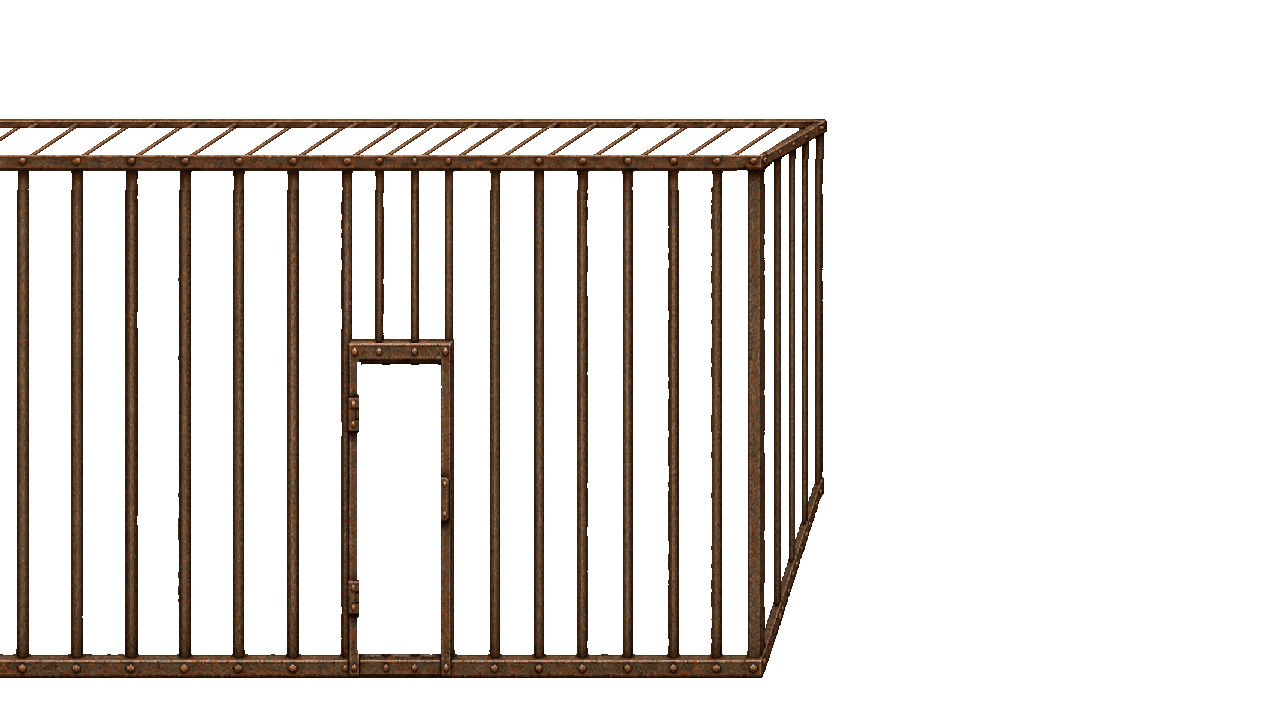
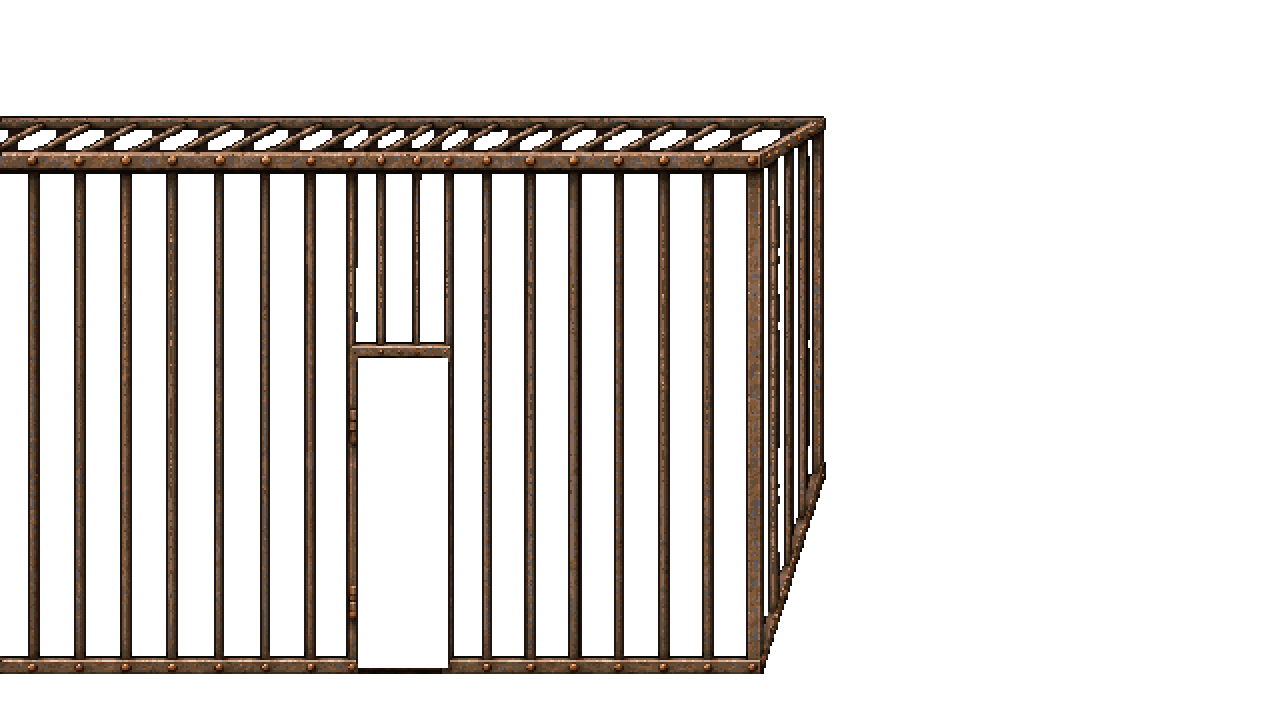
Install approved cell cage redraw and update handoffs

Changed region(s): [[0.0, 0.1528, 0.6562, 0.9472]]

diff --git a/adventure/WORKLOG.md b/adventure/WORKLOG.md
@@ -5,20 +5,22 @@ Per-agent activity and requests: [from Claude](handoff/from-claude.md), [from Co
 Older verification history is in Git history of this file and in CHANGELOG.md.
 
 ## Checkout
-- Branch `dual-ownership`, HEAD `da85ac3`. Last inspected remote and Pages deployment:
+- Branch `dual-ownership`, HEAD `eee676d`. Last inspected remote and Pages deployment:
   `c14fdd4`. Earlier work is committed; published output is unchanged.
-- Claude's 2026-11-15 workflow audit is committed in `da85ac3` (not pushed); no local changes.
+- Claude's workflow audit and request-template changes are committed locally (not pushed).
+  Local changes: `WORKLOG.md`, both handoffs, cage/gate art, manifest and provenance;
+  r4 delivery archived in ignored `art/inbox/done/cell-cage-redraw-r4/`.
 
 ## Working on
 - **Active mode: Codex + Claude**, selected by the user on 2026-11-15. Split, handoff files
   and model guidance: [WORKFLOW.md](WORKFLOW.md). Pauses and approvals unchanged.
-- Current tasks, claims and deliveries awaiting the user are in the two handoff files
-  (cell cage r2 review; unconfirmed kneeling-worker bounce work).
-- R1 and the earlier roof-only `art/inbox/cell-roof-bars/r1/` are superseded cell-cage evidence.
+- Current tasks, claims and deliveries awaiting the user are in the two handoff files.
 - Local Ashlands Story Board in ignored `private/story-board/` (desktop shortcut
   `Ashlands Story Board.lnk`). User edits in `data/board.json`: preserve them; never reseed.
 
 ## Recently completed (installed, verified)
+- Cell cage/gate r4 (user approval 2026-11-15): new clean drawing, existing registration.
+  Evidence: `art/inbox/done/cell-cage-redraw-r4/`. C3 complete; r1–r3 remain uninstalled references.
 - Portrait r2: sixteen standing-based identities with speaking frames and mood metadata.
   Evidence: `art/inbox/done/dialogue-portraits-r2/`; thirteen paused-work briefs remain.
 - Cursor r3 (user approval 2026-11-15): pointing hand for objects/satchel/carried items,
@@ -43,11 +45,16 @@ Older verification history is in Git history of this file and in CHANGELOG.md.
   Font studies remain separate; game fonts unchanged. See README for player behavior.
 
 ## Latest verification
+- Kneeling-worker status confirmed: generator and installed human atlas tags hold frame 8;
+  typecheck and 38 crowd tests pass, including the stationary work contract. No code/art edits
+  or fresh browser playback during this status check.
+- Cell cage r4 installation: approved bytes exact; typecheck, 239 fast / 90 art tests and art
+  checker pass. Four direct installed-asset scratch captures at 1280×720 inspected, zero
+  page/HTTP errors. Evidence: `art/inbox/done/cell-cage-redraw-r4/HANDOFF.md`.
+  Published output unchanged; no commit or push.
 - Workflow audit (2026-11-15): see `handoff/from-claude.md`.
 - Story board (HEAD `36b31bc`): five server persistence tests and standalone browser checks
   passed; game typecheck and 239 fast tests passed. No browser suites or build.
-- Cell cage r2: candidate and failing-baseline regression checks, 239 fast / 90 art tests;
-  temporary previews dark/lit, closed/open, three desktop sizes, zero page/asset errors.
 - Portrait installation: typecheck, 239 fast / 90 art / 286 all-Node tests; scratch
   production dialogue verified all 16 identities / 48 frames with zero page/asset errors.
 - Cursor r3: 238 fast / 132 art-input tests, art checks, 557-file Markdown freshness and
@@ -57,15 +64,10 @@ Older verification history is in Git history of this file and in CHANGELOG.md.
   file readers failed with "registered Core launch requires an installed app").
 
 ## Pending and paused
-- Kofi's 45–60-minute target needs a timed human playthrough.
-- Finished Kofi art and rig installation on hold; source alternatives are review-only.
-  Two Kofi review requests (K1, K2 in `handoff/from-codex.md`) lack an approval authority.
-- Mara's left-facing artwork and Chapter 2 paused until the user resumes them.
 - The discarded 2026-11-11 interaction-effects brief remains rejected; the 2026-11-14 UI
   polish is a distinct implemented delivery.
 - Cell-visual browser changes were previously stopped before a full run. Soft stairs light
   is an intentional placeholder. Oversized verb-icon notices are informational.
 
 ## Next action
-- User reviews cell cage r2 and names the approval authority for Kofi reviews K1/K2.
-- Codex request C1: confirm the new routine is recovered in a fresh Codex session.
+- No open Codex request; C3 is installed and complete. See per-agent handoffs.

diff --git a/adventure/handoff/from-codex.md b/adventure/handoff/from-codex.md
@@ -5,22 +5,16 @@ Written only by Codex; Claude reads it and never edits it. Procedure:
 task queues; Codex owns it from now on.
 
 ## Working on
-- Kneeling human workers' bounce removal: last recorded claims were the human-extra atlas work
-  tags, their generator definition and the focused crowd contract test. Completion not recorded;
-  confirm the state and update this entry.
+- Nothing active. No file claims.
 
 ## Awaiting the user
-- Cell cage redraw r2, corrected transparency: `art/inbox/cell-cage-redraw/r2/HANDOFF.md`;
-  `review.html` compares it with r1. Approval authority: user. Not installed.
+- Nothing.
 
 ## Requests for Claude
-- **K1 (2026-11-13) — review only, blocked.** Separate Kofi standing rig:
-  `art/inbox/kofi-rig-from-standing/HANDOFF.md`. Keep earlier rigs untouched; do not install.
-  Approval authority unspecified.
-- **K2 (2026-11-13) — review only, blocked.** Kofi village/travel designs and eleven-piece packs:
-  `art/inbox/kofi-design/HANDOFF.md`, `TRAVEL.md` and `art/inbox/kofi-layered/HANDOFF.md`.
-  Not installed. Approval authority unspecified. Source details:
-  [retained delivery notes](../art/REFERENCES.md#deferred-kofi-source-and-delivery-notes).
+- None.
 
 ## Taken from Claude
-- None yet.
+- **Kneeling-worker status verification (2026-11-15) — complete.** Existing generator defines `work` as frame 8 only; installed human atlas tags match their stationary crouch frame. `npm run test:feature -- crowd`: typecheck and 38 tests pass, including the no-bounce contract. No runtime/art changes; visual browser playback was not rerun. No new request beyond the already-delivered C3 is present in Claude's handoff.
+- **C3 (2026-11-15) — installed, complete.** User explicitly approved (“cage looks perfect, install”). Approved cage PNG/WebP and gate PNG/JSON installed byte-for-byte; existing runtime registration retained. Manifest/provenance updated. Typecheck, 239 fast / 90 art tests and art checker pass; fresh direct installed-asset scratch captures dark/lit × closed/open inspected, zero page/HTTP errors. Archive: `art/inbox/done/cell-cage-redraw-r4/`. Published output unchanged; no commit or push.
+- **C2 (2026-11-15) — closed by user.** R3 delivery complete at `art/inbox/cell-cage-redraw/r3/`. User explicitly said to consider the task done and not install. No pending review or installation task; assets remain uninstalled.
+- **C1 (2026-11-15) — done.** Recovered the start-reading sequence, stage/request rules and first-open-request meaning of “continue” from `AGENTS.md`; read both handoffs and `WORKFLOW.md` before taking C2.

diff --git a/adventure/art/PROVENANCE.md b/adventure/art/PROVENANCE.md
@@ -129,5 +129,5 @@ Original courtyard, banner animation frames and isolated gauntlet created with b
 - **Cell room states** (`intro/rooms/cell.png`, `cell-bare.png`): Codex's repaired paintings with the cloak hanging from its nail or removed, and the obsolete clay patch removed. Original generations and checks are in `art/inbox/done/cell-cloak/`.
 - **Wax artwork**: Codex's inventory icon (`intro/items/wax.png`, `art/inbox/done/candle-stub/`), floor splash (`intro/objects/floor-wax.png`, `done/table-wax/`) and larger upright guttering stub (`intro/objects/table-stub.png`, `done/table-stub-big/`). These replace Claude's early placeholders; the former window stub is retired.
 - **`intro/objects/stairs-light.png`**: a soft light effect by Claude, not palette art.
-- **Cage and door** (`foreground/cell-cage.png`, `intro/objects/cell-gate.png`): Codex's transparent perspective overlays, split by Claude for foreground depth and opening. The current smaller leaf and continuous roof rods come from `art/inbox/done/cell-door-leaf/`; the previous perspective cage is retained in `done/cell-cage-perspective/`. Earlier door iterations remain in `done/cell-door-small/`.
+- **Cage and door** (`foreground/cell-cage.png` / `.webp`, `intro/objects/cell-gate.png` / `.json`): new r4 cage and matching open leaf generated by Codex with built-in image generation, explicitly approved by the user on 2026-11-15 (“cage looks perfect, install”). Sources, exact prompts, processing, coordinate-fitting limitations and checks: `art/inbox/done/cell-cage-redraw-r4/`. r1–r3 supplied geometry references only; no old cage pixels were reused. Fixed iron and moving leaf retain the existing dimensions, frames and anchors. Older installations remain in `done/cell-door-leaf/`, `done/cell-cage-perspective/` and `done/cell-door-small/`.
 - **Wax-only kneeling reach** (`intro/objects/silas-kneel-reach.png`): the first floor-reaching illustration selected by the user, prepared as body and exposed-arm layers in `art/inbox/done/silas-kneel-reach/`. Its source pixels are preserved; the original general kneel remains unchanged.

diff --git a/adventure/handoff/from-claude.md b/adventure/handoff/from-claude.md
@@ -14,9 +14,12 @@ Written only by Claude; Codex reads it and never edits it. Procedure:
   Checked: typecheck, 239 fast and 90 art tests pass; links/anchors resolve; whitespace clean.
 
 ## Requests for Codex
-- **C1 (2026-11-15) — open.** In your next session, confirm you recover the new routine from
-  `AGENTS.md` (start reading, request rules, "continue" through these handoff files) and
-  record the result in `handoff/from-codex.md`. No other change.
+- **C3 (2026-11-15) — open.** Cell cage/gate r4: entirely new drawing, same design and layout,
+  clean. Instructions: `art/inbox/cell-cage-redraw/r4/PROMPTS.md`. Approval authority: user;
+  do not install. The user dropped r3: remove its *Awaiting the user* entry now; r1–r3 are
+  geometry references only.
+- **C2 (2026-11-15) — done.** Cell cage r3 delivered for user review (see `handoff/from-codex.md`).
+- **C1 (2026-11-15) — done** (Codex confirmed the routine).
 
 ## Taken from Codex
-- Codex's K1 and K2 Kofi reviews: not started; blocked until the user names the approval authority.
+- None. K1/K2 were removed at the user's request on 2026-11-15.
